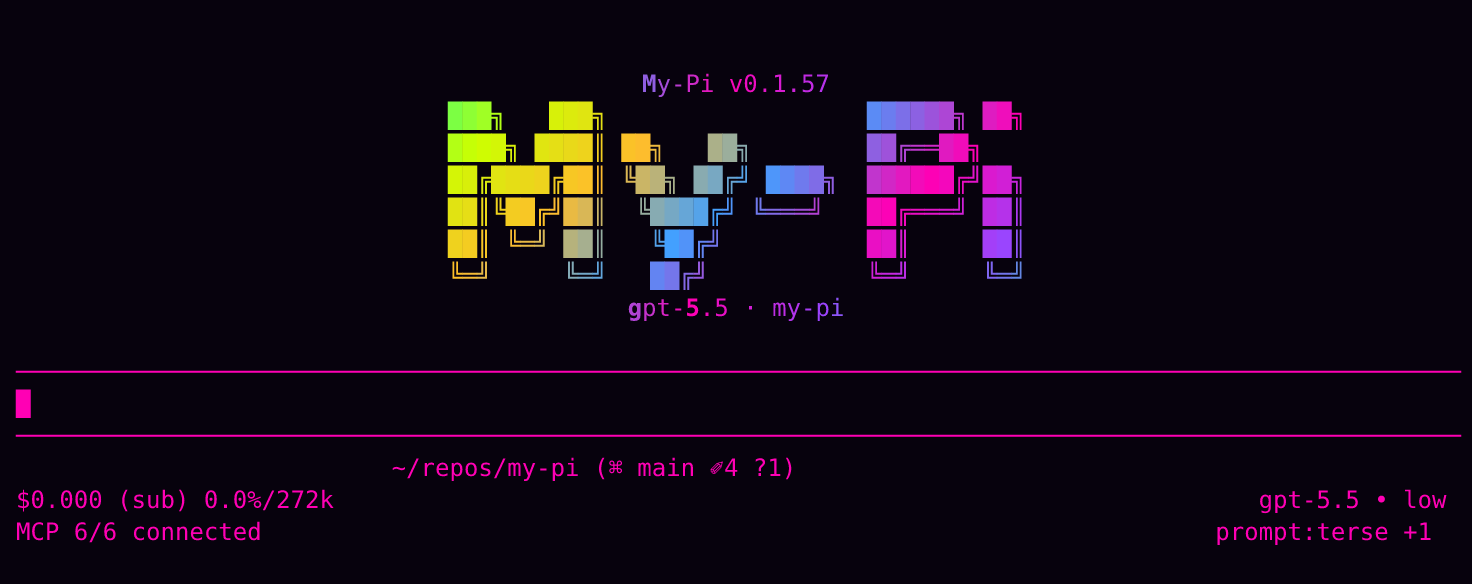
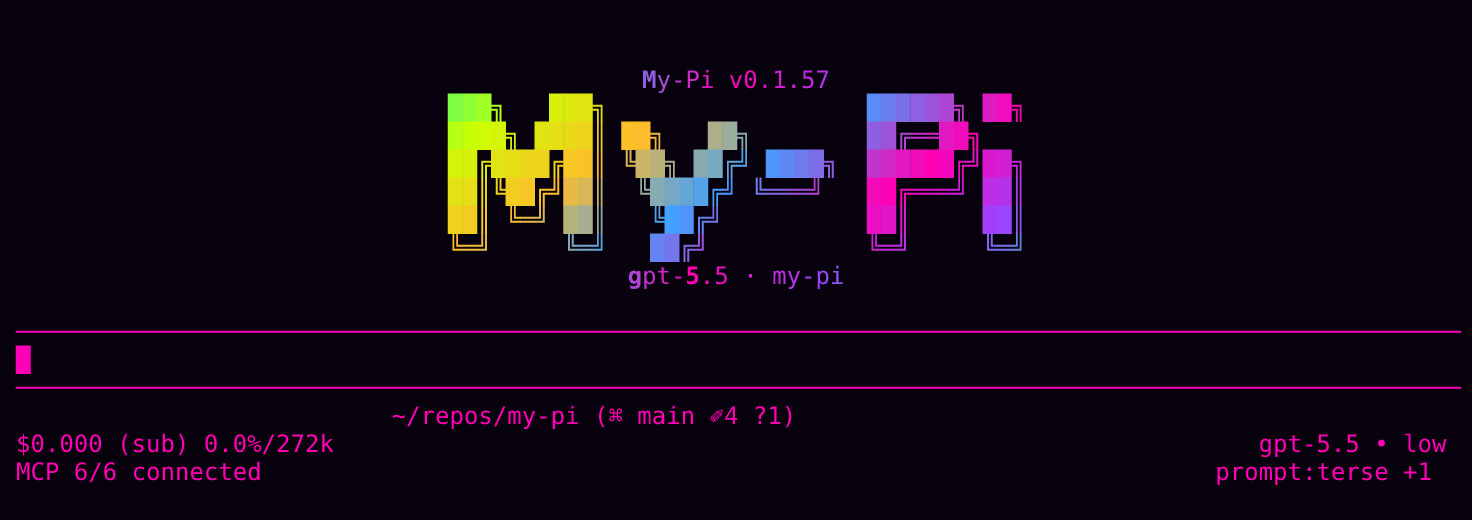
chore: tighten startup preview spacing

diff --git a/scripts/generate-startup-preview.ts b/scripts/generate-startup-preview.ts
@@ -9,7 +9,7 @@ import { render_startup_header } from '../src/extensions/startup-screen/index.ts
 const OUTPUT_PATH = 'assets/pi-package-preview.png';
 const TERMINAL_WIDTH = 100;
 const FONT_SIZE = 24;
-const LINE_HEIGHT = 32;
+const LINE_HEIGHT = 28;
 const PAD_X = 16;
 const PAD_Y = 36;
 const CHAR_WIDTH = 14.4;